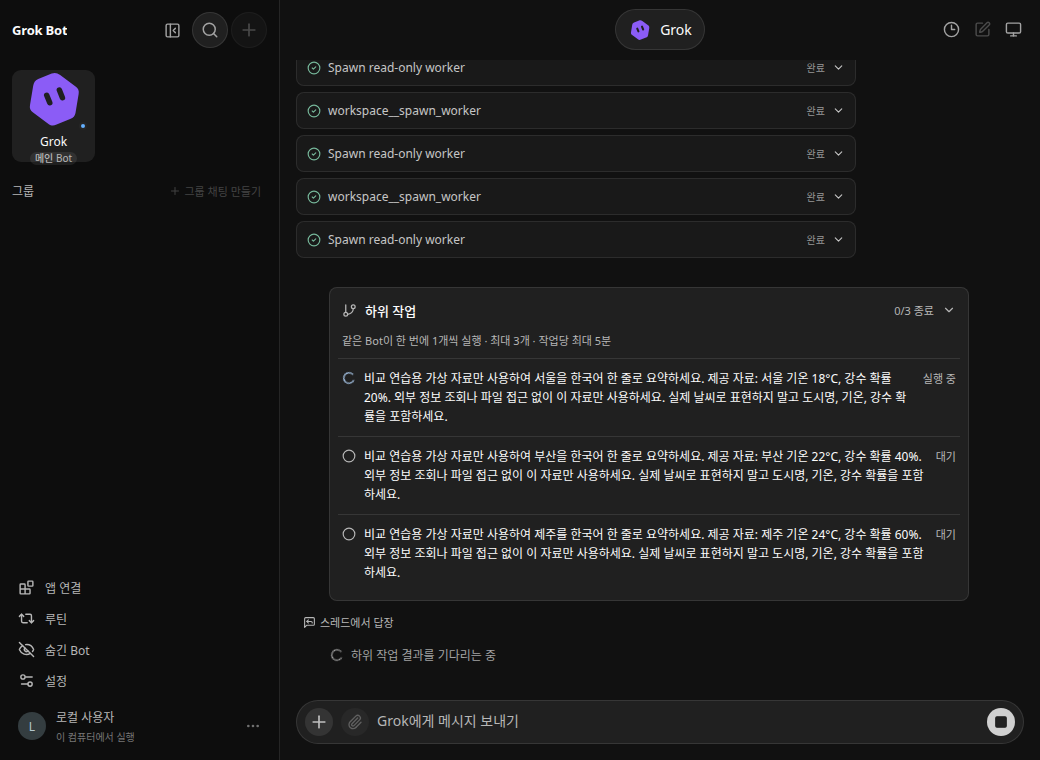
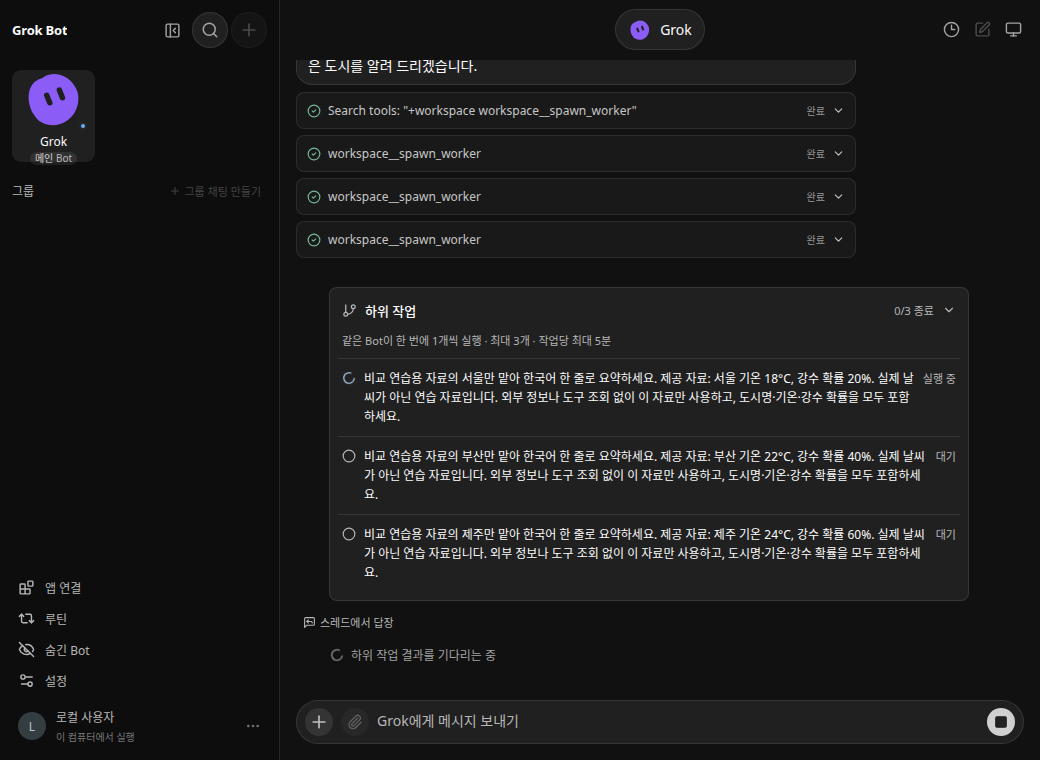
docs: refresh rebased worker comparison and ordinary-question evidence

diff --git a/docs/evidence/issue-14/README.md b/docs/evidence/issue-14/README.md
@@ -4,8 +4,8 @@ Every image here is an actual Chrome capture of the application, not a mockup. C
 
 ## Matched Before / After
 
-- **Before source:** `95ffc464e8d55c1a315fddb31101fadb9c9c5b7b`, the clean merged PR #9 baseline, with its actual compiled Rust backend and built frontend.
-- **After source:** `096d50bcdd44dddf4b6e7dfce59ce7d8d564c0dd` (the following commit adds only this evidence).
+- **Before source:** `3c111316bc4ba4b1d540c4b9e4e218be868b1df1`, current merged main including PR #24, built in a clean detached worktree (Rust server and frontend).
+- **After source:** `c965bdd5cb3a4eeec09d81bec37482dadffca667` (the following commit refreshes evidence only).
 - Same scenario: send `제공한 예시 기온 자료를 서울·부산·제주로 나눠 확인하고, 세 도시의 결과를 모아 비교해 줘.` A scripted provider discovers `workspace spawn_worker` and attempts three distinct tasks. Hold the next parent inference so both captures show the parent still running immediately after those attempts.
 - The old engine/app really rejects the nonexistent tool. The changed app asks for each new task's one-use approval, queues three hidden workers and renders their progress. No worker is allowed to start while the parent is held.
 - Same browser locale `ko-KR`, timezone `Asia/Seoul`, dark theme, explicit blob avatar and viewport: 1040 × 760 desktop / 390 × 844 mobile. The after view scrolls to the added progress panel as chat content grows.
@@ -31,18 +31,18 @@ The final worker implementation was exercised with actual `gpt-6.1-sol`. The pro
 - [Actual model's grouped answer after reload](real-model-completed.png).
 - [Sanitized observations and output](real-model.json): three approvals, three completed tasks, one completed report, one public conversation, one visible user message, zero page errors, and the canonical user state unchanged during the smoke run.
 
-No extra worker-specific instructions were added to the fixture Bot. This is one qualitative end-to-end check, not a reliability benchmark or a claim of external weather access.
+No extra worker-specific instructions were added to the fixture Bot. [Ordinary-question regression](ordinary-questions.json) separately exercises a greeting, multiplication and loaded-session follow-up without mentioning delegation or automatically approving anything: all three answered directly, with zero worker batches or approval requests. These are qualitative end-to-end checks, not a reliability benchmark or a claim of external weather access.
 
 ## Verification record
 
 - Frontend strict TypeScript and production build: passed.
 - Rust formatting and strict clippy for model/store/core: passed.
-- Model/store: 114 tests passed, plus the 12 worker tests rechecked after lint-only rewrites.
-- Core: 67 tests passed, including all existing and new real-engine runtime scenarios.
-- Node regression: 106 passed with `--test-concurrency=1`. The initial parallel run hit the existing routine byte-capacity test's 10-second wait; that isolated test and the complete serial suite then passed without changing it.
+- Model/store: 125 tests passed, including 21 worker/retention/authorization/invariant scenarios.
+- Core: 96 tests passed (85 unit and 11 integration binaries), including signal-first cancellation on failed writes, conditional catalogs, guarded actual-engine cache cleanup, #24 queued-report cancellation and the existing real-engine scenarios. The workspace-pinning/legacy-no-file scenario was then added and the runtime integration binary passed again.
+- Rebased frontend state selectors: 5 passed. The original implementation's full Node regression passed 106 tests with `--test-concurrency=1`; its initial parallel run hit the existing byte-capacity test's wait, and the isolated/serial reruns passed without modifying that test.
 - New worker Chrome suite: 5 passed (1040/390/320 px, Stop, denial).
-- Existing report/group/thread/checklist Chrome regression: 8 passed.
-- Independent correctness and interface reviews: findings fixed and reviewed; source review has no open actionable findings. A Stop/report-completion race was fixed with a persisted-state reopen regression. A long-task compactness issue was fixed and verified with the 61-line browser scenario.
+- Rebased existing report/group/thread Chrome regression: 7 passed, including both desktop/mobile #24 queued-report cancellation scenarios.
+- Human review corrections add optional/scoped worker guidance, terminal history retention, signal-first cancellation on storage failure, approval-time workspace binding, pre-write ownership validation, queued-only input unlocking and one visible invocation row per worker. Tests cover these boundaries; source/interface independent review is recorded in the PR after the final revision is fixed. The earlier Stop/report-completion and long-task compactness regressions remain covered.
 - The scripted comparisons and actual-model smoke each reported zero page errors. Mechanical interface detector reported no findings.
 
 Source-level details and limitations are in [the worker lifecycle note](../../worker-delegation.md).
